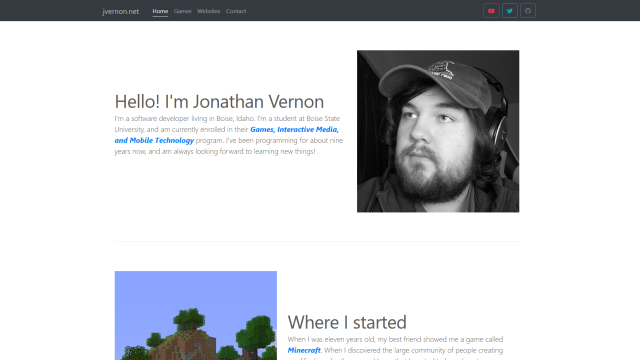
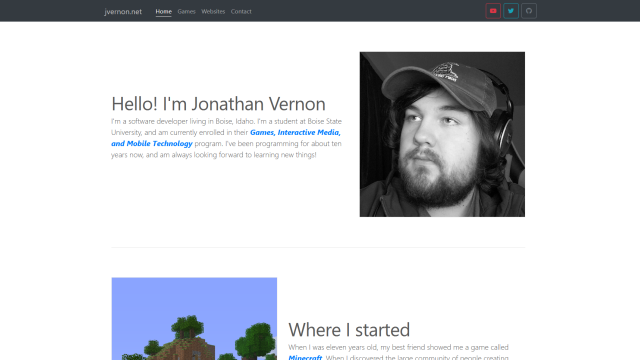
Updated website previews and fixed home padding on desktop

diff --git a/assets/styles/page_home.css b/assets/styles/page_home.css
@@ -36,7 +36,11 @@
 	transition: opacity var(--transition-time);
 }
 
-.heading-below
+/* MOBILE */
+@media (max-aspect-ratio: 5/4)
 {
-	margin-top: 2rem;
+	.heading-below
+	{
+		margin-top: 2rem;
+	}
 }
